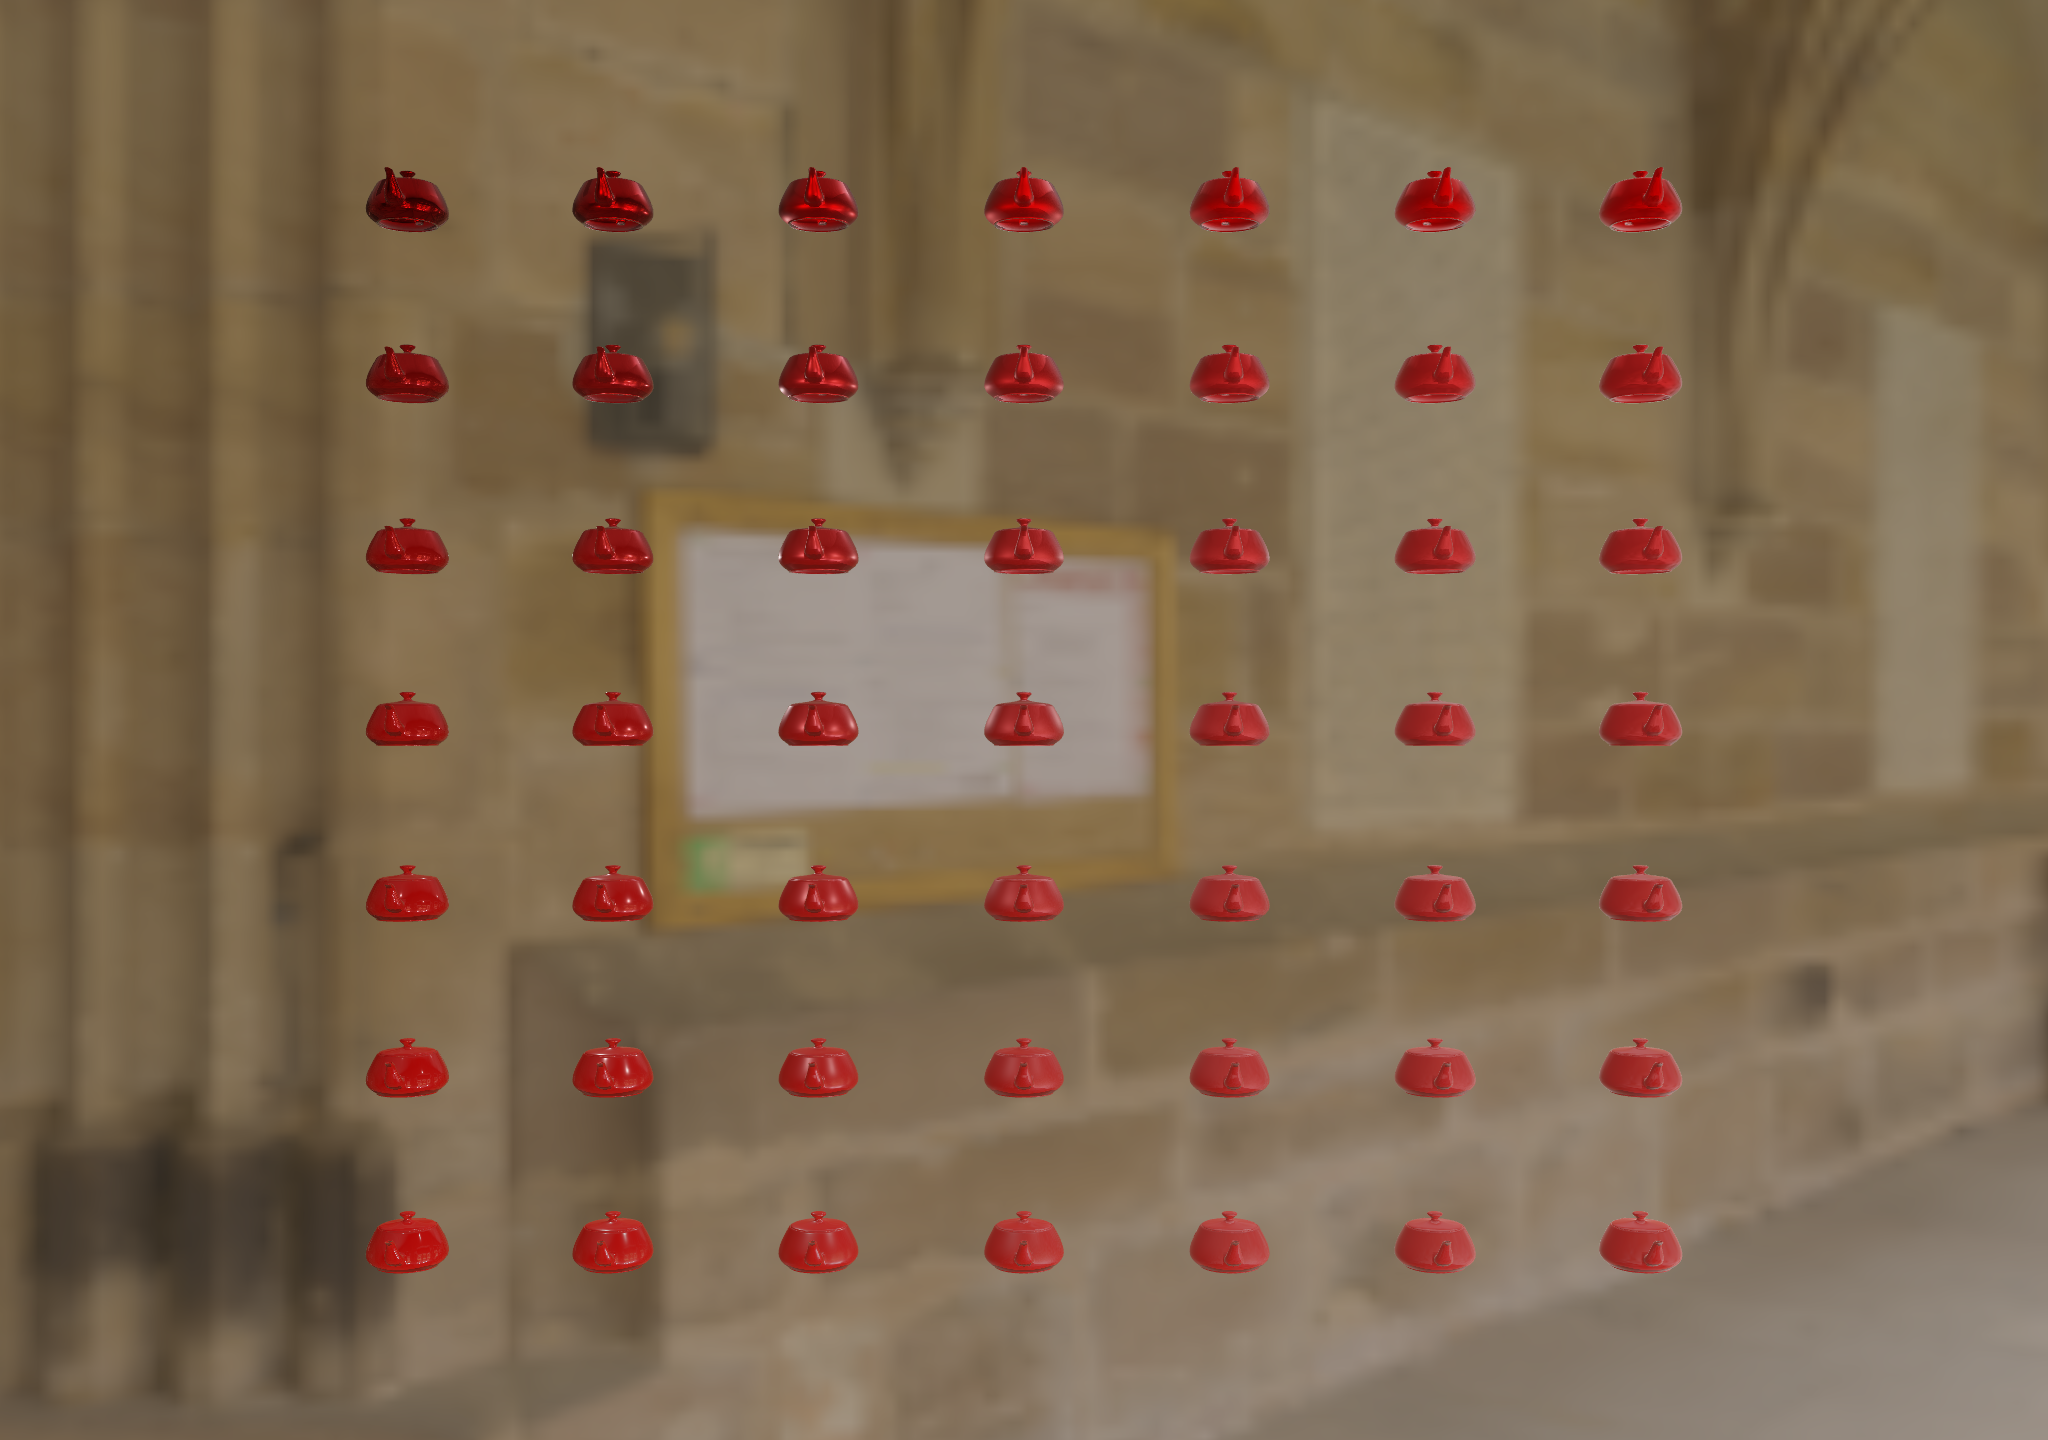
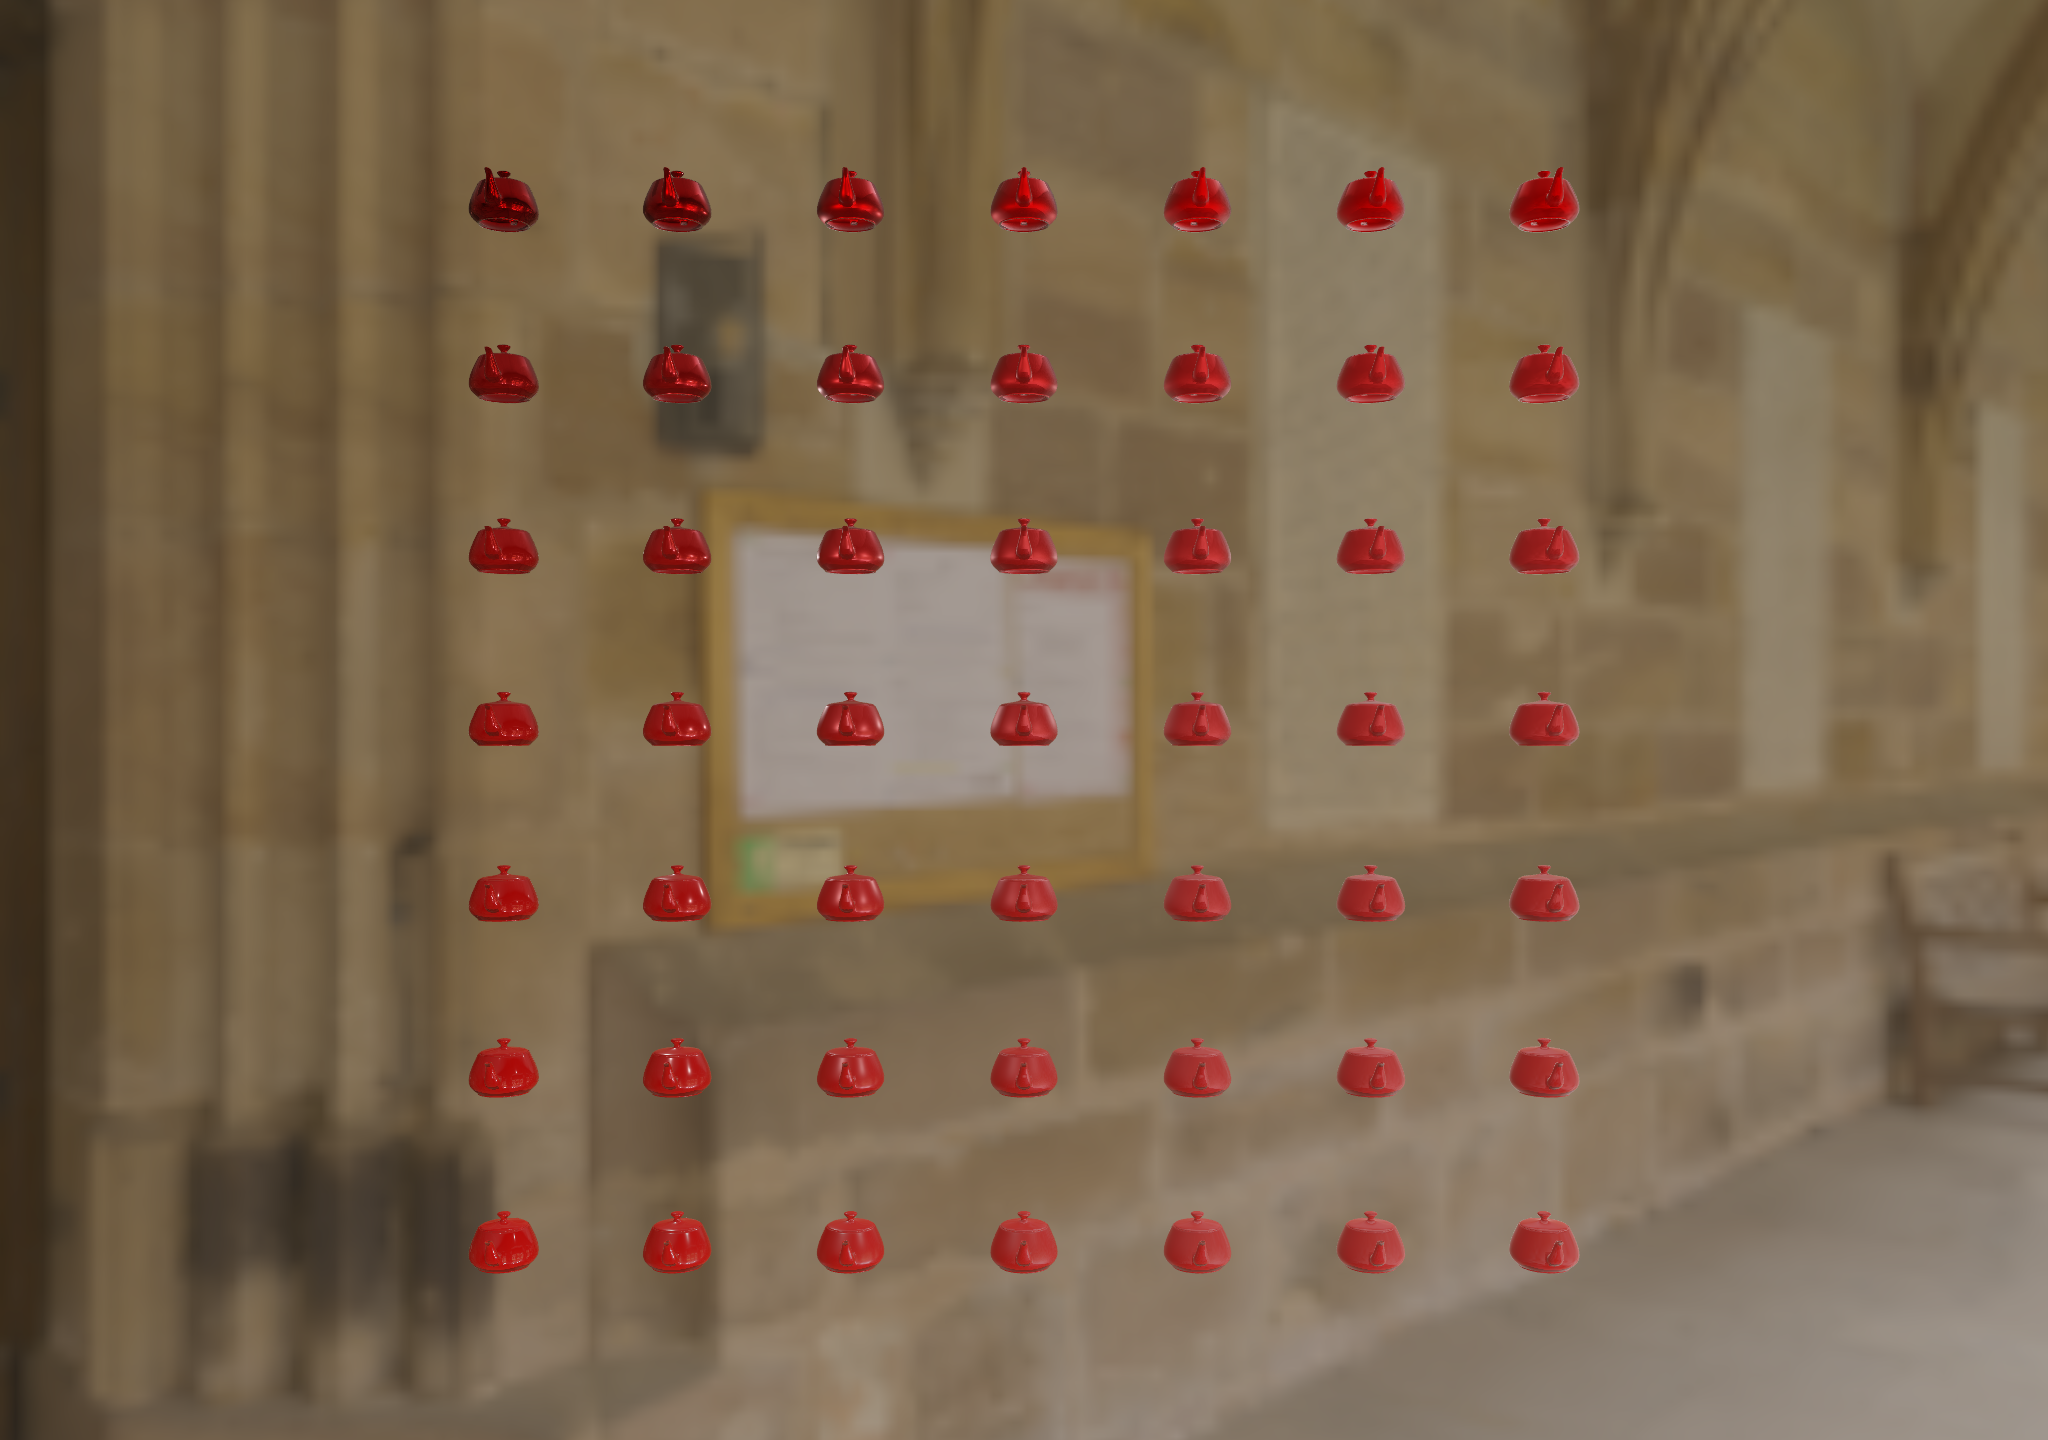
fix(hdri): correct WebGPU projection aspect + final-review cleanups
FirstPersonCamera.set_projection only returns a matrix (never stores it), so
the WebGPU demo rendered at the constructor's fixed 1.2 aspect regardless of
window size -- ~18% horizontal stretch vs the OpenGL demo. Add _update_projection
(mirrors main.py) driven from __init__, resize and Space so aspect tracks the
window and wheel-zoom stays correct. Also drop a dead bind-group alias, note
the WebGPU prefilter mip-chain difference in the README, and tie the prefilter
resolution constant to ENV_SIZE. Re-captured HDRIWebGPU.png at correct aspect.

diff --git a/PBR/HDRI/HDRIWebGPU.py b/PBR/HDRI/HDRIWebGPU.py
@@ -181,9 +181,7 @@ class HDRIScene(WebGPUWidget):
         self.camera = FirstPersonCamera(
             Vec3(0, 0, 30), Vec3(0, 0, 0), Vec3(0, 1, 0), 45.0, PerspMode.WebGPU
         )
-        width = max(self.width(), 1)
-        height = max(self.height(), 1)
-        self.camera.set_projection(45.0, width / height, 0.05, 350.0, PerspMode.WebGPU)
+        self._update_projection(max(self.width(), 1), max(self.height(), 1))
 
         self._initialize_web_gpu()
         self.startTimer(16)
@@ -621,7 +619,7 @@ class HDRIScene(WebGPUWidget):
             entries=[{"binding": 0, "resource": {"buffer": self.pbr_scene_buffer}}],
         )
 
-        ibl_view = self.pbr_ibl_bind_group = self.device.create_bind_group(
+        self.pbr_ibl_bind_group = self.device.create_bind_group(
             layout=self.pbr_ibl_bgl,
             entries=[
                 {
@@ -645,7 +643,6 @@ class HDRIScene(WebGPUWidget):
                 {"binding": 3, "resource": self.linear_sampler},
             ],
         )
-        del ibl_view  # created for clarity above; bind group is the useful part
 
     def _build_grid(self) -> None:
         """Lay out the 7x7 teapot grid: rows sweep metallic, columns sweep
@@ -879,11 +876,30 @@ class HDRIScene(WebGPUWidget):
             self.update()
 
     # ------------------------------------------------------------------- input
+    def _update_projection(self, w: int, h: int) -> None:
+        """Rebuild the camera's projection for a `w`x`h` viewport.
+
+        FirstPersonCamera.set_projection only returns a matrix (it never stores
+        it, and rebuilds from self.aspect/near/far on zoom), so we set those
+        fields and rebuild _projection here -- that keeps the aspect matching
+        the window (so the grid isn't stretched) and wheel-zoom working.
+        """
+        self.camera.aspect = float(w) / float(max(h, 1))
+        self.camera.near = 0.05
+        self.camera.far = 350.0
+        self.camera._projection = perspective(
+            self.camera.zoom,
+            self.camera.aspect,
+            self.camera.near,
+            self.camera.far,
+            PerspMode.WebGPU,
+        )
+
     def resizeWebGPU(self, width: int, height: int) -> None:
         ratio = self.devicePixelRatio()
         w = max(width * ratio, 1)
         h = max(height * ratio, 1)
-        self.camera.set_projection(45.0, w / h, 0.05, 350.0, PerspMode.WebGPU)
+        self._update_projection(w, h)
         self.update()
 
     def _update_camera_movement(self, delta_time: float) -> None:
@@ -912,11 +928,7 @@ class HDRIScene(WebGPUWidget):
             self.camera = FirstPersonCamera(
                 Vec3(0, 0, 30), Vec3(0, 0, 0), Vec3(0, 1, 0), 45.0, PerspMode.WebGPU
             )
-            width = max(self.width(), 1)
-            height = max(self.height(), 1)
-            self.camera.set_projection(
-                45.0, width / height, 0.05, 350.0, PerspMode.WebGPU
-            )
+            self._update_projection(max(self.width(), 1), max(self.height(), 1))
         self.update()
         super().keyPressEvent(event)
 

diff --git a/PBR/HDRI/README.md b/PBR/HDRI/README.md
@@ -62,6 +62,15 @@ uv run PBR/HDRI/HDRIWebGPU.py   # WebGPU
 Reading the `.exr` needs [OpenEXR](https://pypi.org/project/OpenEXR/),
 already a project dependency (`PBR/HDRI/exr_loader.py`).
 
+## Notes
+
+One small difference between the backends: the OpenGL bake gives the
+environment cubemap a full mip chain (`glGenerateMipmap`) that the prefilter
+step samples to knock back specular fireflies, whereas wgpu has no equivalent,
+so the WebGPU prefilter reads the base level only. In practice that's just a
+touch more sparkle on the roughest WebGPU teapots — the two demos are otherwise
+the same.
+
 ## References
 
 - LearnOpenGL — [Diffuse Irradiance](https://learnopengl.com/PBR/IBL/Diffuse-irradiance)
